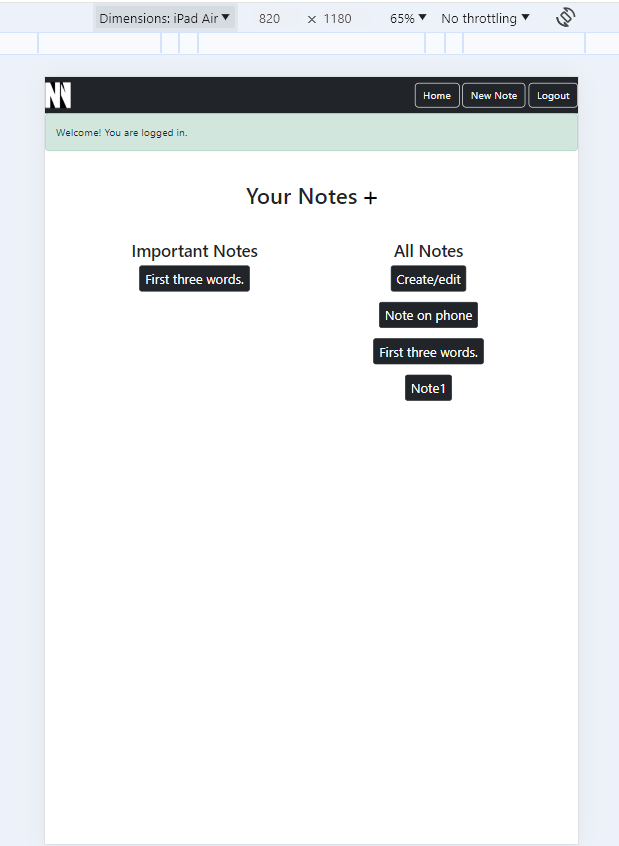
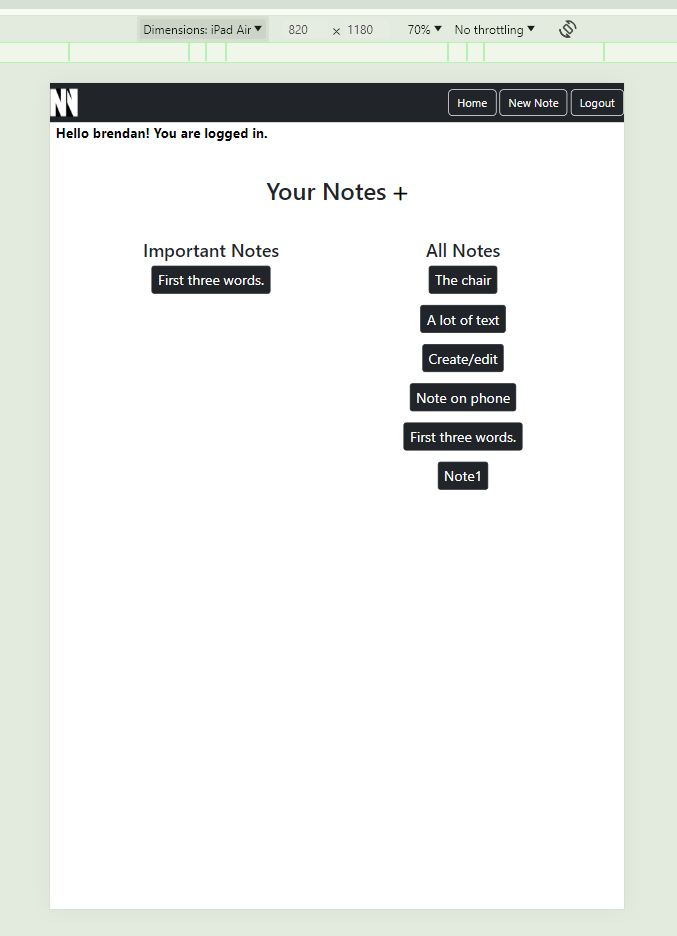
change login message so not in navbar, edit readme accordingly

Changed region(s): [[0.0, 0.0, 1.0, 1.0], [0.5832, 0.2459, 0.7981, 0.5225]]

diff --git a/static/templates/base.html b/static/templates/base.html
@@ -22,8 +22,6 @@
 
         <div class="ms-auto">
             {% if user.is_authenticated %}
-            <!-- If user is logged in display their name-->
-            <span class="users-name">{{ request.user.username }}</span>
             <a href="{% url 'notes.list' %}" class="btn btn-outline-light">Home</a>
             <a href="{% url 'notes.new' %}" class="btn btn-outline-light">New Note</a>
             <form id="logout-form" method="post" action="{% url 'logout' %}" style="display:none;">
@@ -39,9 +37,13 @@
         </div>
     </nav>
 
+    {% if user.is_authenticated %}
+    <!-- If user is logged in display their name-->
+    <span class="users-name">Hello {{ request.user.username }}! You are logged in.</span>
+    {% endif %}
     <!-- Success messages -->
     {% if messages %}
-    <!-- Checks if messages contains anything ie if user has just logged in, signed up, created note, edited note or deleted note -->
+    <!-- Checks if messages contains anything ie if user has just signed up, created note, edited note or deleted note -->
     <div id="messages">
         {% for message in messages %}
         <div class="alert alert-{{ message.tags }}">

diff --git a/static/css/style.css b/static/css/style.css
@@ -1,4 +1,6 @@
 .users-name {
-    color: white;
+    color: black;
     font-size: larger;
+    font-weight: bolder;
+    margin-left: 1%;
 }

diff --git a/neatnotes/settings.py b/neatnotes/settings.py
@@ -28,7 +28,7 @@ SECRET_KEY = os.environ.get('SECRET_KEY')
 DATABASE_URL = os.environ.get('DATABASE_URL')
 
 # SECURITY WARNING: don't run with debug turned on in production!
-DEBUG = False
+DEBUG = True
 
 ALLOWED_HOSTS = [
     '8000-brendanching-neatnotes-4lr6jcek035.ws.codeinstitute-ide.net',

diff --git a/home/views.py b/home/views.py
@@ -37,7 +37,6 @@ class LoginInterfaceView(SuccessMessageMixin, LoginView):
     page to the home page and display success message.
     """
     template_name = 'home/login.html'
-    success_message = "Welcome! You are logged in."
 
 
 class LogoutInterfaceView(LogoutView):

diff --git a/README.md b/README.md
@@ -108,7 +108,7 @@ Acceptance Criteria:
 
 ### Design
 
-The design is simple, as I believe a notes app should be, using only black and white, and with no intrusive content on the page. Most of the styling is done via bootstrap's built in classes: the navbar is built using .navbar-dark and buttons with .btn-dark. The view, create and edit forms use bootstrap's .card class. There is no styling on the text, aside from the user's name which is in white.
+The design is simple, as I believe a notes app should be, using only black and white, and with no intrusive content on the page. Most of the styling is done via bootstrap's built in classes: the navbar is built using .navbar-dark and buttons with .btn-dark. The view, create and edit forms use bootstrap's .card class. There is no styling on the text, aside from the login message which is bold and larger.
 
 I designed a logo for the site which I placed in the navbar and as a favicon. Go to [Features](#logo) for more on the logo.
 
@@ -197,14 +197,17 @@ Registered users can login using the form, allowing them access to the site.
 
 ![screenshot of login form](static/images/login.png)
 
-Users are notified when they login:
+Users are notified when they login. The message remains while they are logged in:
 
 ![screenshot of notification](static/images/loginmessage.png)
 
 **Related User Story: As a user I want to be able to login so that I can privately view, create, update and delete my personal notes.**
 <br>
 
-**[Testing](#feature-and-user-story-testing): Feature and userstory pass**
+**Related User Story: As a user, I want to see my username somewhere on the page so I know I'm logged in.**
+<br>
+
+**[Testing](#feature-and-user-story-testing): Feature and user stories pass**
 
 ### Logout 
 
@@ -320,18 +323,6 @@ Once a note is marked as important, the layout of the homepage is changed; impor
 
 **[Testing](#feature-and-user-story-testing): Feature and user story pass**
 
-
-### Username in Navbar
-
-Users like to see their username somewhere on the page so they know they are logged in, but also because their experience of the site feels more personalised.
-
-![screenshot of username](static/images/username.png)
-
-
-**Related User Story: As a user, I want to see my username somewhere on the page so I know I'm logged in.**
-
-**[Testing](#feature-and-user-story-testing): Feature and user story pass**
-
 ### No Title Field Required
 
 Sometimes users don't want to think of a title for their note - maybe they just need to quickly note something down and it doesn't need a title. I have implemented functionality that takes the first three words from the content of the note and sends it to the title field, allowing the user to leave the title blank, but still ensuring there is some title for their later reference.
@@ -405,20 +396,13 @@ On the notes list page, my intention was to have notes marked as important on th
 
 ![picture of bug before](static/images/bugifstatementsiteafter.png)
 
-### Users Name not showing in the Navbar
-I had a problem with displaying the users name in the navbar. Initially, I thought it hadn't rendered at all, but upon inspection of the element, I found that it was rending as black on black, ignoring my css file that specifies white text. I had not run 'collect static', when I did, it worked, showing the username in white over the navbar.
-
-![picture of bug before](static/images/usersnamebefore.png)
-
-![picture of bug before](static/images/usersnameafter.png)
-
 ### Problems with Deployment
 I had added an unnecessary directory which held all my apps inside it. This initially only caused a few minor complications with link pathing, but I worked around it, thinking it was fine, but when I came to deploy, heroku threw the errors, 'build failed' and 'push rejected'. After some googling, I realised the unnecessary folder meant heroku was unable to identify my project as a django application. I was concerned this would become a tedious task of moving all my files into new folders one by one before deleting the problematic folder, but chatgpt gave me the command, 'mv folder_name/* .' which moved everything out the parent directory. I then deleted the folder, and it worked!
 
 ![picture of command line code](static/images/folderbugcode.png)
 
 ### 'Create' Success Messages not Showing
-All success messages for sign-up, login, create, delete and edit were not working initially, however I quickly realised I had not imported 'SuccessMessageMixin' to my view, when I did, I believed I had solved the issue and moved on. Upon testing, however, I noticed the create notification was not showing up. Inspecting the create view, I found that the function that identifies the user and saves the note to their database table, was stopping the success message. I added one line of code to fix this: messages.success(self.request, self.success_message).
+All success messages for sign-up, login, create, delete and edit were not working initially, however I quickly realised I had not imported 'SuccessMessageMixin' to my view, when I did, I believed I had solved the issue and moved on. Upon testing, however, I noticed the create notification was not showing up. Inspecting the create view, I found that the function that identifies the user and saves the note to their database table was stopping the success message. I added one line of code to fix this: messages.success(self.request, self.success_message).
 
 ![picture of code for success message bug](static/images/bugsuccessbefore.png)
 
@@ -465,7 +449,7 @@ This is documented in the features section where each feature is shown working, 
 
 **As a user I want to be able to share my notes, so that others can view them.**
 
-**[As a user, I want to see my username somewhere on the page so I know I'm logged in.](#username-in-navbar)**
+**[As a user, I want to see my username somewhere on the page so I know I'm logged in.](#login)**
 
 #### Unaddressed User Story
 
